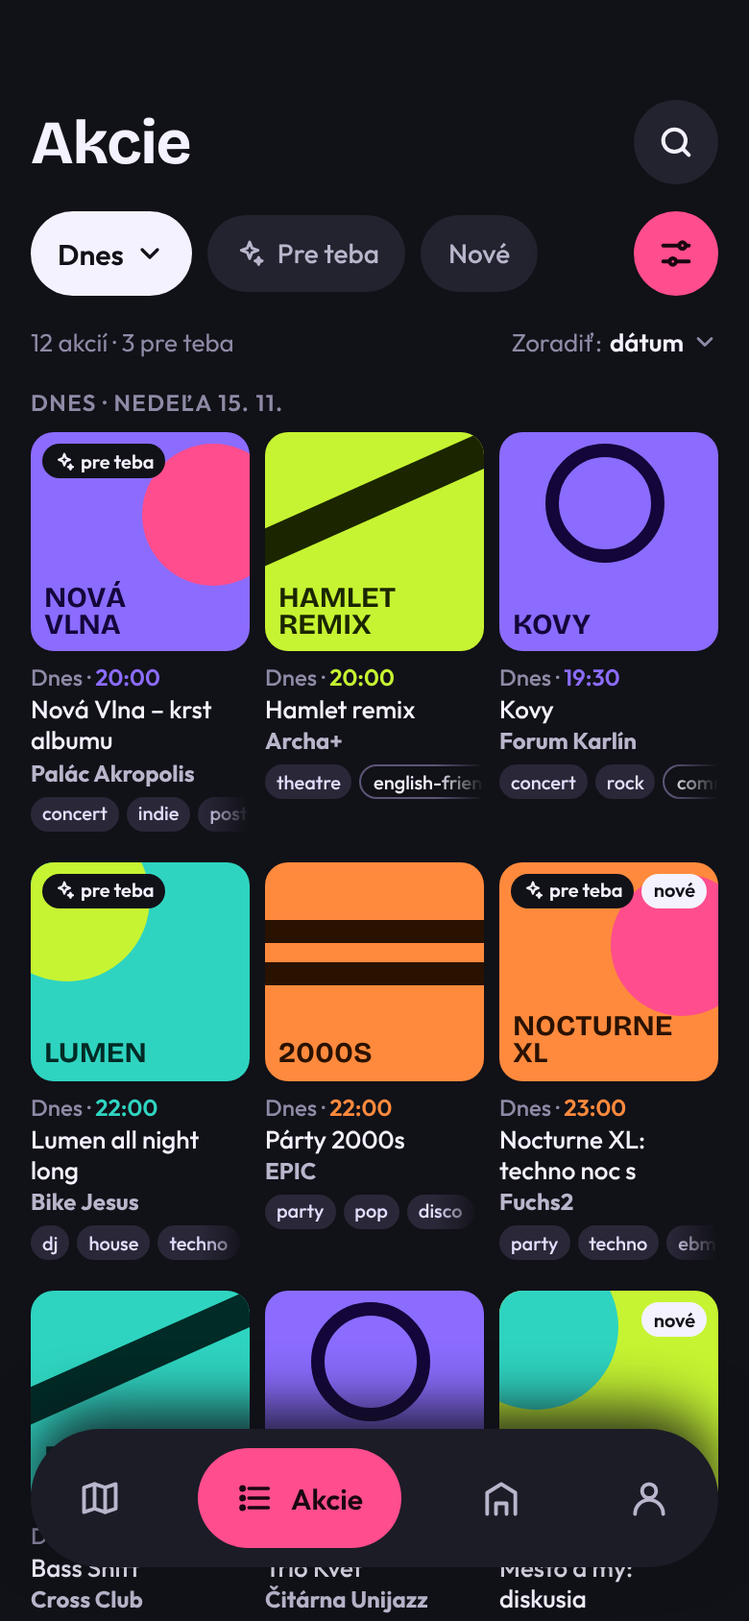
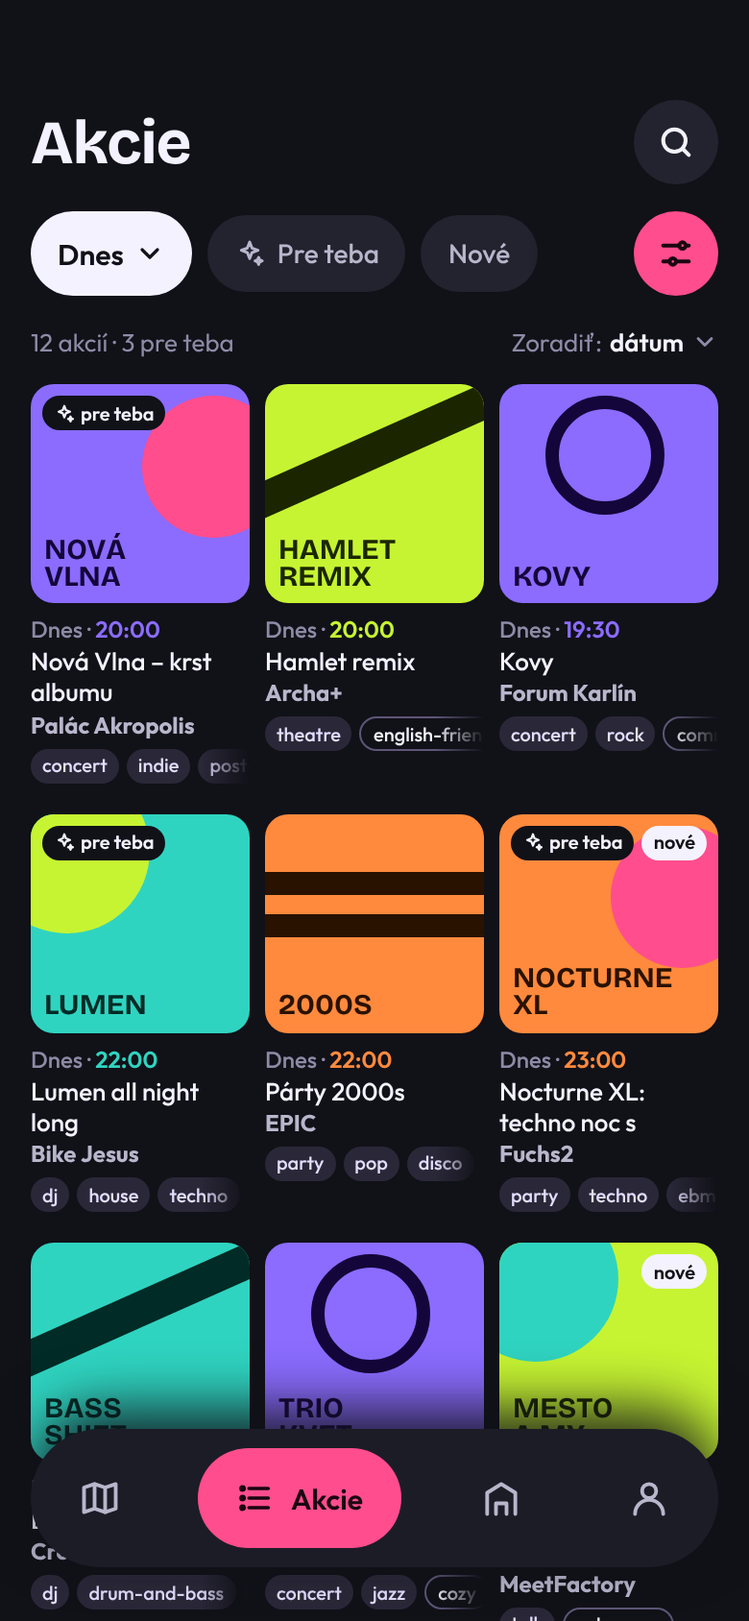
docs: Akcie grid without day headers
Claude-Session: https://claude.ai/code/session_01CCRZeCVriBLHf7RCmUKnbv

diff --git a/docs/design/html/11-akcie-obdobie.html b/docs/design/html/11-akcie-obdobie.html
@@ -9,7 +9,7 @@
 <button style="height:44px;padding:0 14px;border-radius:22px;border:0;background:#F4F2FF;color:#111118;font-family:Outfit,sans-serif;font-size:15px;font-weight:600;display:flex;align-items:center;gap:6px;white-space:nowrap;flex:none">7 dní<svg width="16" height="16" viewBox="0 0 24 24" fill="none" stroke="currentColor" stroke-width="2.4" stroke-linecap="round" stroke-linejoin="round" aria-hidden="true"><path d="M6 9l6 6 6-6"></path></svg></button>
 <div class="tg" style="flex:1;min-width:0;display:flex;gap:8px;overflow:hidden"><button style="height:40px;padding:0 14px;border-radius:20px;border:0;background:#23232F;color:#B9B6CC;font-family:Outfit,sans-serif;font-size:14px;font-weight:500;display:flex;align-items:center;gap:6px;white-space:nowrap;flex:none"><svg width="16" height="16" viewBox="0 0 24 24" fill="none" stroke="currentColor" stroke-width="2.2" stroke-linecap="round" stroke-linejoin="round" aria-hidden="true"><path d="M12 3l1.8 4.7L18.5 9.5l-4.7 1.8L12 16l-1.8-4.7L5.5 9.5l4.7-1.8z"></path><path d="M19 15l.8 2 2 .8-2 .8-.8 2-.8-2-2-.8 2-.8z"></path></svg>Pre teba</button><button style="height:40px;padding:0 14px;border-radius:20px;border:0;background:#23232F;color:#B9B6CC;font-family:Outfit,sans-serif;font-size:14px;font-weight:500;display:flex;align-items:center;gap:6px;white-space:nowrap;flex:none">Nové</button></div>
 <button style="width:44px;height:44px;border-radius:22px;border:0;background:#FF4D8D;color:#1A0710;display:flex;align-items:center;justify-content:center;flex:none" aria-label="Filter"><svg width="20" height="20" viewBox="0 0 24 24" fill="none" stroke="currentColor" stroke-width="2.4" stroke-linecap="round" stroke-linejoin="round" aria-hidden="true"><path d="M4 7h10M18 7h2M4 17h4M12 17h8"></path><circle cx="16" cy="7" r="2"></circle><circle cx="10" cy="17" r="2"></circle></svg></button></div>
-<div style="display:flex;justify-content:space-between;align-items:center;font-size:13px;color:#8E8AA6;margin-top:2px"><span>31 akcií · 9 pre teba</span><span style="display:flex;align-items:center;gap:4px">Zoradiť: <b style="color:#F4F2FF;font-weight:600">dátum</b><svg width="14" height="14" viewBox="0 0 24 24" fill="none" stroke="currentColor" stroke-width="2.4" stroke-linecap="round" stroke-linejoin="round" aria-hidden="true"><path d="M6 9l6 6 6-6"></path></svg></span></div></div><div style="padding:0 16px"><div style="font-size:12px;font-weight:600;letter-spacing:.06em;color:#8E8AA6;margin:16px 0 8px">DNES · NEDEĽA 15. 11.</div><div style="display:grid;grid-template-columns:repeat(3,minmax(0,1fr));gap:16px 8px;align-items:start"><div style="min-width:0">
+<div style="display:flex;justify-content:space-between;align-items:center;font-size:13px;color:#8E8AA6;margin-top:2px"><span>31 akcií · 9 pre teba</span><span style="display:flex;align-items:center;gap:4px">Zoradiť: <b style="color:#F4F2FF;font-weight:600">dátum</b><svg width="14" height="14" viewBox="0 0 24 24" fill="none" stroke="currentColor" stroke-width="2.4" stroke-linecap="round" stroke-linejoin="round" aria-hidden="true"><path d="M6 9l6 6 6-6"></path></svg></span></div></div><div style="padding:14px 16px 0"><div style="display:grid;grid-template-columns:repeat(3,minmax(0,1fr));gap:16px 8px;align-items:start"><div style="min-width:0">
 <div style="width:100%;aspect-ratio:1/1;border-radius:12px;background:#8B6CFF;color:#14063A;position:relative;overflow:hidden;display:flex;align-items:flex-end;padding:7px;box-sizing:border-box"><span style="position:absolute;width:74px;height:74px;border-radius:50%;background:#FF4D8D;right:-18px;top:6px"></span><span style="position:absolute;top:6px;left:6px;z-index:2;height:18px;padding:0 6px;border-radius:9px;background:#111118;color:#F4F2FF;font-size:10px;font-weight:600;display:flex;align-items:center;gap:3px"><svg width="11" height="11" viewBox="0 0 24 24" fill="none" stroke="currentColor" stroke-width="2.4" stroke-linecap="round" stroke-linejoin="round" aria-hidden="true"><path d="M12 3l1.8 4.7L18.5 9.5l-4.7 1.8L12 16l-1.8-4.7L5.5 9.5l4.7-1.8z"></path><path d="M19 15l.8 2 2 .8-2 .8-.8 2-.8-2-2-.8 2-.8z"></path></svg>pre teba</span><span style="position:relative;z-index:1;font-family:'Bricolage Grotesque',sans-serif;font-weight:700;font-size:15px;line-height:.95;text-transform:uppercase">Nová<br>Vlna</span></div>
 <div style="margin-top:6px;font-size:12px;font-weight:600;white-space:nowrap;overflow:hidden"><span style="color:#8E8AA6;font-weight:500">Dnes · </span><span style="color:#8B6CFF">20:00</span></div>
 <div style="font-size:13px;font-weight:500;line-height:1.25;max-height:2.5em;overflow:hidden;margin-top:1px">Nová Vlna – krst albumu</div>
@@ -24,19 +24,19 @@
 <div style="margin-top:6px;font-size:12px;font-weight:600;white-space:nowrap;overflow:hidden"><span style="color:#8E8AA6;font-weight:500">Dnes · </span><span style="color:#FF8A3D">23:00</span></div>
 <div style="font-size:13px;font-weight:500;line-height:1.25;max-height:2.5em;overflow:hidden;margin-top:1px">Nocturne XL: techno noc s hosťami z Berlína</div>
 <div style="font-size:12px;font-weight:700;color:#B9B6CC;white-space:nowrap;overflow:hidden;text-overflow:ellipsis;margin-top:1px">Fuchs2</div>
-<div class="tg" style="display:flex;gap:4px;margin-top:5px;overflow:hidden"><span style="flex:none;height:18px;padding:0 6px;border-radius:9px;font-size:10px;font-weight:500;display:flex;align-items:center;background:#2A2838;color:#E4DEFF">party</span><span style="flex:none;height:18px;padding:0 6px;border-radius:9px;font-size:10px;font-weight:500;display:flex;align-items:center;background:#2A2838;color:#E4DEFF">techno</span><span style="flex:none;height:18px;padding:0 6px;border-radius:9px;font-size:10px;font-weight:500;display:flex;align-items:center;background:#2A2838;color:#E4DEFF">ebm</span><span style="flex:none;height:18px;padding:0 6px;border-radius:9px;font-size:10px;font-weight:500;display:flex;align-items:center;border:1.5px solid #5D5677;color:#F4F2FF;box-sizing:border-box">late-night</span></div></div></div><div style="font-size:12px;font-weight:600;letter-spacing:.06em;color:#8E8AA6;margin:16px 0 8px">PONDELOK 16. 11.</div><div style="display:grid;grid-template-columns:repeat(3,minmax(0,1fr));gap:16px 8px;align-items:start"><div style="min-width:0">
+<div class="tg" style="display:flex;gap:4px;margin-top:5px;overflow:hidden"><span style="flex:none;height:18px;padding:0 6px;border-radius:9px;font-size:10px;font-weight:500;display:flex;align-items:center;background:#2A2838;color:#E4DEFF">party</span><span style="flex:none;height:18px;padding:0 6px;border-radius:9px;font-size:10px;font-weight:500;display:flex;align-items:center;background:#2A2838;color:#E4DEFF">techno</span><span style="flex:none;height:18px;padding:0 6px;border-radius:9px;font-size:10px;font-weight:500;display:flex;align-items:center;background:#2A2838;color:#E4DEFF">ebm</span><span style="flex:none;height:18px;padding:0 6px;border-radius:9px;font-size:10px;font-weight:500;display:flex;align-items:center;border:1.5px solid #5D5677;color:#F4F2FF;box-sizing:border-box">late-night</span></div></div><div style="min-width:0">
 <div style="width:100%;aspect-ratio:1/1;border-radius:12px;background:#8B6CFF;color:#14063A;position:relative;overflow:hidden;display:flex;align-items:flex-end;padding:7px;box-sizing:border-box"><span style="position:absolute;width:74px;height:74px;border-radius:50%;background:#FF4D8D;right:-18px;top:6px"></span><span style="position:relative;z-index:1;font-family:'Bricolage Grotesque',sans-serif;font-weight:700;font-size:15px;line-height:.95;text-transform:uppercase">Trio<br>Kvet</span></div>
-<div style="margin-top:6px;font-size:12px;font-weight:600;white-space:nowrap;overflow:hidden"><span style="color:#8E8AA6;font-weight:500">Po 16. 11. · </span><span style="color:#8B6CFF">20:00</span></div>
+<div style="margin-top:6px;font-size:12px;font-weight:600;white-space:nowrap;overflow:hidden"><span style="color:#8E8AA6;font-weight:500">Zajtra · </span><span style="color:#8B6CFF">20:00</span></div>
 <div style="font-size:13px;font-weight:500;line-height:1.25;max-height:2.5em;overflow:hidden;margin-top:1px">Trio Kvet</div>
 <div style="font-size:12px;font-weight:700;color:#B9B6CC;white-space:nowrap;overflow:hidden;text-overflow:ellipsis;margin-top:1px">Čitárna Unijazz</div>
 <div class="tg" style="display:flex;gap:4px;margin-top:5px;overflow:hidden"><span style="flex:none;height:18px;padding:0 6px;border-radius:9px;font-size:10px;font-weight:500;display:flex;align-items:center;background:#2A2838;color:#E4DEFF">concert</span><span style="flex:none;height:18px;padding:0 6px;border-radius:9px;font-size:10px;font-weight:500;display:flex;align-items:center;background:#2A2838;color:#E4DEFF">jazz</span><span style="flex:none;height:18px;padding:0 6px;border-radius:9px;font-size:10px;font-weight:500;display:flex;align-items:center;border:1.5px solid #5D5677;color:#F4F2FF;box-sizing:border-box">cozy</span></div></div><div style="min-width:0">
 <div style="width:100%;aspect-ratio:1/1;border-radius:12px;background:#C6F432;color:#1B2600;position:relative;overflow:hidden;display:flex;align-items:flex-end;padding:7px;box-sizing:border-box"><span style="position:absolute;width:140px;height:18px;border-radius:4px;background:#1B2600;left:-14px;top:26px;transform:rotate(-24deg)"></span><span style="position:absolute;top:6px;right:6px;z-index:2;height:18px;padding:0 6px;border-radius:9px;background:#F4F2FF;color:#111118;font-size:10px;font-weight:600;display:flex;align-items:center">nové</span><span style="position:relative;z-index:1;font-family:'Bricolage Grotesque',sans-serif;font-weight:700;font-size:15px;line-height:.95;text-transform:uppercase">Mesto<br>a my</span></div>
-<div style="margin-top:6px;font-size:12px;font-weight:600;white-space:nowrap;overflow:hidden"><span style="color:#8E8AA6;font-weight:500">Po 16. 11. · </span><span style="color:#C6F432">19:00</span></div>
+<div style="margin-top:6px;font-size:12px;font-weight:600;white-space:nowrap;overflow:hidden"><span style="color:#8E8AA6;font-weight:500">Zajtra · </span><span style="color:#C6F432">19:00</span></div>
 <div style="font-size:13px;font-weight:500;line-height:1.25;max-height:2.5em;overflow:hidden;margin-top:1px">Mesto a my: diskusia</div>
 <div style="font-size:12px;font-weight:700;color:#B9B6CC;white-space:nowrap;overflow:hidden;text-overflow:ellipsis;margin-top:1px">MeetFactory</div>
 <div class="tg" style="display:flex;gap:4px;margin-top:5px;overflow:hidden"><span style="flex:none;height:18px;padding:0 6px;border-radius:9px;font-size:10px;font-weight:500;display:flex;align-items:center;background:#2A2838;color:#E4DEFF">talk</span><span style="flex:none;height:18px;padding:0 6px;border-radius:9px;font-size:10px;font-weight:500;display:flex;align-items:center;border:1.5px solid #5D5677;color:#F4F2FF;box-sizing:border-box">art-space</span></div></div><div style="min-width:0">
 <div style="width:100%;aspect-ratio:1/1;border-radius:12px;background:#C6F432;color:#1B2600;position:relative;overflow:hidden;display:flex;align-items:flex-end;padding:7px;box-sizing:border-box"><span style="position:absolute;width:62px;height:62px;border-radius:50%;border:7px solid #1B2600;left:24px;top:6px;box-sizing:border-box"></span><span style="position:relative;z-index:1;font-family:'Bricolage Grotesque',sans-serif;font-weight:700;font-size:15px;line-height:.95;text-transform:uppercase">Hamlet<br>remix</span></div>
-<div style="margin-top:6px;font-size:12px;font-weight:600;white-space:nowrap;overflow:hidden"><span style="color:#8E8AA6;font-weight:500">Po 16. 11. · </span><span style="color:#C6F432">20:00</span></div>
+<div style="margin-top:6px;font-size:12px;font-weight:600;white-space:nowrap;overflow:hidden"><span style="color:#8E8AA6;font-weight:500">Zajtra · </span><span style="color:#C6F432">20:00</span></div>
 <div style="font-size:13px;font-weight:500;line-height:1.25;max-height:2.5em;overflow:hidden;margin-top:1px">Hamlet remix</div>
 <div style="font-size:12px;font-weight:700;color:#B9B6CC;white-space:nowrap;overflow:hidden;text-overflow:ellipsis;margin-top:1px">Archa+</div>
 <div class="tg" style="display:flex;gap:4px;margin-top:5px;overflow:hidden"><span style="flex:none;height:18px;padding:0 6px;border-radius:9px;font-size:10px;font-weight:500;display:flex;align-items:center;background:#2A2838;color:#E4DEFF">theatre</span><span style="flex:none;height:18px;padding:0 6px;border-radius:9px;font-size:10px;font-weight:500;display:flex;align-items:center;border:1.5px solid #5D5677;color:#F4F2FF;box-sizing:border-box">english-friendly</span><span style="flex:none;height:18px;padding:0 6px;border-radius:9px;font-size:10px;font-weight:500;display:flex;align-items:center;border:1.5px solid #5D5677;color:#F4F2FF;box-sizing:border-box">experimental</span></div></div></div></div><nav style="position: absolute; z-index: 10; left: 16px; right: 16px; bottom: 28px; height: 72px; border-radius: 36px; background: #1C1C27; display: flex; align-items: center; justify-content: space-between; padding: 0 10px; box-shadow: 0 -10px 30px rgba(17,17,24,0.9)" aria-label="Hlavná navigácia"><a href="#" style="width: 52px; height: 52px; border-radius: 26px; color: #B9B6CC; display: flex; align-items: center; justify-content: center" aria-label="Mapa"><svg width="22" height="22" viewBox="0 0 24 24" fill="none" stroke="currentColor" stroke-width="2.1" stroke-linecap="round" stroke-linejoin="round" aria-hidden="true"><path d="M9 4L3 6v14l6-2 6 2 6-2V4l-6 2z"></path><path d="M9 4v14M15 6v14"></path></svg></a><a href="#" style="height: 52px; padding: 0 20px; border-radius: 26px; background: #FF4D8D; color: #1A0710; display: flex; align-items: center; gap: 8px; text-decoration: none; font-size: 15px; font-weight: 600"><svg width="20" height="20" viewBox="0 0 24 24" fill="none" stroke="currentColor" stroke-width="2.2" stroke-linecap="round" stroke-linejoin="round" aria-hidden="true"><path d="M8 6h12M8 12h12M8 18h12"></path><circle cx="4" cy="6" r="1"></circle><circle cx="4" cy="12" r="1"></circle><circle cx="4" cy="18" r="1"></circle></svg>Akcie</a><a href="#" style="width: 52px; height: 52px; border-radius: 26px; color: #B9B6CC; display: flex; align-items: center; justify-content: center" aria-label="Miesta"><svg width="22" height="22" viewBox="0 0 24 24" fill="none" stroke="currentColor" stroke-width="2.1" stroke-linecap="round" stroke-linejoin="round" aria-hidden="true"><path d="M4 21V9l8-5 8 5v12"></path><path d="M9 21v-6h6v6"></path></svg></a><a href="#" style="width: 52px; height: 52px; border-radius: 26px; color: #B9B6CC; display: flex; align-items: center; justify-content: center" aria-label="Účet"><svg width="22" height="22" viewBox="0 0 24 24" fill="none" stroke="currentColor" stroke-width="2.1" stroke-linecap="round" stroke-linejoin="round" aria-hidden="true"><circle cx="12" cy="8" r="4"></circle><path d="M4 21a8 8 0 0 1 16 0"></path></svg></a></nav><div style="position:absolute;inset:0;background:rgba(11,11,16,.6);z-index:5"></div>

diff --git a/docs/design/html/12-akcie-hladanie.html b/docs/design/html/12-akcie-hladanie.html
@@ -9,12 +9,12 @@
 <button style="height:44px;padding:0 14px;border-radius:22px;border:0;background:#F4F2FF;color:#111118;font-family:Outfit,sans-serif;font-size:15px;font-weight:600;display:flex;align-items:center;gap:6px;white-space:nowrap;flex:none">Kedykoľvek<svg width="16" height="16" viewBox="0 0 24 24" fill="none" stroke="currentColor" stroke-width="2.4" stroke-linecap="round" stroke-linejoin="round" aria-hidden="true"><path d="M6 9l6 6 6-6"></path></svg></button>
 <div class="tg" style="flex:1;min-width:0;display:flex;gap:8px;overflow:hidden"><button style="height:40px;padding:0 14px;border-radius:20px;border:0;background:#23232F;color:#B9B6CC;font-family:Outfit,sans-serif;font-size:14px;font-weight:500;display:flex;align-items:center;gap:6px;white-space:nowrap;flex:none"><svg width="16" height="16" viewBox="0 0 24 24" fill="none" stroke="currentColor" stroke-width="2.2" stroke-linecap="round" stroke-linejoin="round" aria-hidden="true"><path d="M12 3l1.8 4.7L18.5 9.5l-4.7 1.8L12 16l-1.8-4.7L5.5 9.5l4.7-1.8z"></path><path d="M19 15l.8 2 2 .8-2 .8-.8 2-.8-2-2-.8 2-.8z"></path></svg>Pre teba</button><button style="height:40px;padding:0 14px;border-radius:20px;border:0;background:#23232F;color:#B9B6CC;font-family:Outfit,sans-serif;font-size:14px;font-weight:500;display:flex;align-items:center;gap:6px;white-space:nowrap;flex:none">Nové</button></div>
 <button style="width:44px;height:44px;border-radius:22px;border:0;background:#FF4D8D;color:#1A0710;display:flex;align-items:center;justify-content:center;flex:none" aria-label="Filter"><svg width="20" height="20" viewBox="0 0 24 24" fill="none" stroke="currentColor" stroke-width="2.4" stroke-linecap="round" stroke-linejoin="round" aria-hidden="true"><path d="M4 7h10M18 7h2M4 17h4M12 17h8"></path><circle cx="16" cy="7" r="2"></circle><circle cx="10" cy="17" r="2"></circle></svg></button></div>
-<div style="display:flex;justify-content:space-between;align-items:center;font-size:13px;color:#8E8AA6;margin-top:2px"><span>3 akcie</span><span style="display:flex;align-items:center;gap:4px">Zoradiť: <b style="color:#F4F2FF;font-weight:600">dátum</b><svg width="14" height="14" viewBox="0 0 24 24" fill="none" stroke="currentColor" stroke-width="2.4" stroke-linecap="round" stroke-linejoin="round" aria-hidden="true"><path d="M6 9l6 6 6-6"></path></svg></span></div></div><div style="padding:0 16px"><div style="font-size:12px;font-weight:600;letter-spacing:.06em;color:#8E8AA6;margin:16px 0 8px">DNES · NEDEĽA 15. 11.</div><div style="display:grid;grid-template-columns:repeat(3,minmax(0,1fr));gap:16px 8px;align-items:start"><div style="min-width:0">
+<div style="display:flex;justify-content:space-between;align-items:center;font-size:13px;color:#8E8AA6;margin-top:2px"><span>3 akcie</span><span style="display:flex;align-items:center;gap:4px">Zoradiť: <b style="color:#F4F2FF;font-weight:600">dátum</b><svg width="14" height="14" viewBox="0 0 24 24" fill="none" stroke="currentColor" stroke-width="2.4" stroke-linecap="round" stroke-linejoin="round" aria-hidden="true"><path d="M6 9l6 6 6-6"></path></svg></span></div></div><div style="padding:14px 16px 0"><div style="display:grid;grid-template-columns:repeat(3,minmax(0,1fr));gap:16px 8px;align-items:start"><div style="min-width:0">
 <div style="width:100%;aspect-ratio:1/1;border-radius:12px;background:#2FD4C0;color:#002B26;position:relative;overflow:hidden;display:flex;align-items:flex-end;padding:7px;box-sizing:border-box"><span style="position:absolute;width:74px;height:74px;border-radius:50%;background:#FF4D8D;right:-18px;top:6px"></span><span style="position:absolute;top:6px;left:6px;z-index:2;height:18px;padding:0 6px;border-radius:9px;background:#111118;color:#F4F2FF;font-size:10px;font-weight:600;display:flex;align-items:center;gap:3px"><svg width="11" height="11" viewBox="0 0 24 24" fill="none" stroke="currentColor" stroke-width="2.4" stroke-linecap="round" stroke-linejoin="round" aria-hidden="true"><path d="M12 3l1.8 4.7L18.5 9.5l-4.7 1.8L12 16l-1.8-4.7L5.5 9.5l4.7-1.8z"></path><path d="M19 15l.8 2 2 .8-2 .8-.8 2-.8-2-2-.8 2-.8z"></path></svg>pre teba</span><span style="position:relative;z-index:1;font-family:'Bricolage Grotesque',sans-serif;font-weight:700;font-size:15px;line-height:.95;text-transform:uppercase">Lumen</span></div>
 <div style="margin-top:6px;font-size:12px;font-weight:600;white-space:nowrap;overflow:hidden"><span style="color:#8E8AA6;font-weight:500">Dnes · </span><span style="color:#2FD4C0">22:00</span></div>
 <div style="font-size:13px;font-weight:500;line-height:1.25;max-height:2.5em;overflow:hidden;margin-top:1px">Lumen all night long</div>
 <div style="font-size:12px;font-weight:700;color:#B9B6CC;white-space:nowrap;overflow:hidden;text-overflow:ellipsis;margin-top:1px">Bike Jesus</div>
-<div class="tg" style="display:flex;gap:4px;margin-top:5px;overflow:hidden"><span style="flex:none;height:18px;padding:0 6px;border-radius:9px;font-size:10px;font-weight:500;display:flex;align-items:center;background:#2A2838;color:#E4DEFF">dj</span><span style="flex:none;height:18px;padding:0 6px;border-radius:9px;font-size:10px;font-weight:500;display:flex;align-items:center;background:#2A2838;color:#E4DEFF">house</span><span style="flex:none;height:18px;padding:0 6px;border-radius:9px;font-size:10px;font-weight:500;display:flex;align-items:center;background:#2A2838;color:#E4DEFF">techno</span><span style="flex:none;height:18px;padding:0 6px;border-radius:9px;font-size:10px;font-weight:500;display:flex;align-items:center;border:1.5px solid #5D5677;color:#F4F2FF;box-sizing:border-box">diy</span></div></div></div><div style="font-size:12px;font-weight:600;letter-spacing:.06em;color:#8E8AA6;margin:16px 0 8px">PIATOK 20. 11.</div><div style="display:grid;grid-template-columns:repeat(3,minmax(0,1fr));gap:16px 8px;align-items:start"><div style="min-width:0">
+<div class="tg" style="display:flex;gap:4px;margin-top:5px;overflow:hidden"><span style="flex:none;height:18px;padding:0 6px;border-radius:9px;font-size:10px;font-weight:500;display:flex;align-items:center;background:#2A2838;color:#E4DEFF">dj</span><span style="flex:none;height:18px;padding:0 6px;border-radius:9px;font-size:10px;font-weight:500;display:flex;align-items:center;background:#2A2838;color:#E4DEFF">house</span><span style="flex:none;height:18px;padding:0 6px;border-radius:9px;font-size:10px;font-weight:500;display:flex;align-items:center;background:#2A2838;color:#E4DEFF">techno</span><span style="flex:none;height:18px;padding:0 6px;border-radius:9px;font-size:10px;font-weight:500;display:flex;align-items:center;border:1.5px solid #5D5677;color:#F4F2FF;box-sizing:border-box">diy</span></div></div><div style="min-width:0">
 <div style="width:100%;aspect-ratio:1/1;border-radius:12px;background:#FF8A3D;color:#2A1200;position:relative;overflow:hidden;display:flex;align-items:flex-end;padding:7px;box-sizing:border-box"><span style="position:absolute;width:74px;height:74px;border-radius:50%;background:#FF4D8D;right:-18px;top:6px"></span><span style="position:absolute;top:6px;left:6px;z-index:2;height:18px;padding:0 6px;border-radius:9px;background:#111118;color:#F4F2FF;font-size:10px;font-weight:600;display:flex;align-items:center;gap:3px"><svg width="11" height="11" viewBox="0 0 24 24" fill="none" stroke="currentColor" stroke-width="2.4" stroke-linecap="round" stroke-linejoin="round" aria-hidden="true"><path d="M12 3l1.8 4.7L18.5 9.5l-4.7 1.8L12 16l-1.8-4.7L5.5 9.5l4.7-1.8z"></path><path d="M19 15l.8 2 2 .8-2 .8-.8 2-.8-2-2-.8 2-.8z"></path></svg>pre teba</span><span style="position:absolute;top:6px;right:6px;z-index:2;height:18px;padding:0 6px;border-radius:9px;background:#F4F2FF;color:#111118;font-size:10px;font-weight:600;display:flex;align-items:center">nové</span><span style="position:relative;z-index:1;font-family:'Bricolage Grotesque',sans-serif;font-weight:700;font-size:15px;line-height:.95;text-transform:uppercase">Nocturne<br>XL</span></div>
 <div style="margin-top:6px;font-size:12px;font-weight:600;white-space:nowrap;overflow:hidden"><span style="color:#8E8AA6;font-weight:500">Pi 20. 11. · </span><span style="color:#FF8A3D">23:00</span></div>
 <div style="font-size:13px;font-weight:500;line-height:1.25;max-height:2.5em;overflow:hidden;margin-top:1px">Nocturne XL: techno noc s hosťami z Berlína</div>

diff --git a/docs/design/html/10-akcie-mriezka.html b/docs/design/html/10-akcie-mriezka.html
@@ -9,7 +9,7 @@
 <button style="height:44px;padding:0 14px;border-radius:22px;border:0;background:#F4F2FF;color:#111118;font-family:Outfit,sans-serif;font-size:15px;font-weight:600;display:flex;align-items:center;gap:6px;white-space:nowrap;flex:none">Dnes<svg width="16" height="16" viewBox="0 0 24 24" fill="none" stroke="currentColor" stroke-width="2.4" stroke-linecap="round" stroke-linejoin="round" aria-hidden="true"><path d="M6 9l6 6 6-6"></path></svg></button>
 <div class="tg" style="flex:1;min-width:0;display:flex;gap:8px;overflow:hidden"><button style="height:40px;padding:0 14px;border-radius:20px;border:0;background:#23232F;color:#B9B6CC;font-family:Outfit,sans-serif;font-size:14px;font-weight:500;display:flex;align-items:center;gap:6px;white-space:nowrap;flex:none"><svg width="16" height="16" viewBox="0 0 24 24" fill="none" stroke="currentColor" stroke-width="2.2" stroke-linecap="round" stroke-linejoin="round" aria-hidden="true"><path d="M12 3l1.8 4.7L18.5 9.5l-4.7 1.8L12 16l-1.8-4.7L5.5 9.5l4.7-1.8z"></path><path d="M19 15l.8 2 2 .8-2 .8-.8 2-.8-2-2-.8 2-.8z"></path></svg>Pre teba</button><button style="height:40px;padding:0 14px;border-radius:20px;border:0;background:#23232F;color:#B9B6CC;font-family:Outfit,sans-serif;font-size:14px;font-weight:500;display:flex;align-items:center;gap:6px;white-space:nowrap;flex:none">Nové</button></div>
 <button style="width:44px;height:44px;border-radius:22px;border:0;background:#FF4D8D;color:#1A0710;display:flex;align-items:center;justify-content:center;flex:none" aria-label="Filter"><svg width="20" height="20" viewBox="0 0 24 24" fill="none" stroke="currentColor" stroke-width="2.4" stroke-linecap="round" stroke-linejoin="round" aria-hidden="true"><path d="M4 7h10M18 7h2M4 17h4M12 17h8"></path><circle cx="16" cy="7" r="2"></circle><circle cx="10" cy="17" r="2"></circle></svg></button></div>
-<div style="display:flex;justify-content:space-between;align-items:center;font-size:13px;color:#8E8AA6;margin-top:2px"><span>12 akcií · 3 pre teba</span><span style="display:flex;align-items:center;gap:4px">Zoradiť: <b style="color:#F4F2FF;font-weight:600">dátum</b><svg width="14" height="14" viewBox="0 0 24 24" fill="none" stroke="currentColor" stroke-width="2.4" stroke-linecap="round" stroke-linejoin="round" aria-hidden="true"><path d="M6 9l6 6 6-6"></path></svg></span></div></div><div style="padding:0 16px"><div style="font-size:12px;font-weight:600;letter-spacing:.06em;color:#8E8AA6;margin:16px 0 8px">DNES · NEDEĽA 15. 11.</div><div style="display:grid;grid-template-columns:repeat(3,minmax(0,1fr));gap:16px 8px;align-items:start"><div style="min-width:0">
+<div style="display:flex;justify-content:space-between;align-items:center;font-size:13px;color:#8E8AA6;margin-top:2px"><span>12 akcií · 3 pre teba</span><span style="display:flex;align-items:center;gap:4px">Zoradiť: <b style="color:#F4F2FF;font-weight:600">dátum</b><svg width="14" height="14" viewBox="0 0 24 24" fill="none" stroke="currentColor" stroke-width="2.4" stroke-linecap="round" stroke-linejoin="round" aria-hidden="true"><path d="M6 9l6 6 6-6"></path></svg></span></div></div><div style="padding:14px 16px 0"><div style="display:grid;grid-template-columns:repeat(3,minmax(0,1fr));gap:16px 8px;align-items:start"><div style="min-width:0">
 <div style="width:100%;aspect-ratio:1/1;border-radius:12px;background:#8B6CFF;color:#14063A;position:relative;overflow:hidden;display:flex;align-items:flex-end;padding:7px;box-sizing:border-box"><span style="position:absolute;width:74px;height:74px;border-radius:50%;background:#FF4D8D;right:-18px;top:6px"></span><span style="position:absolute;top:6px;left:6px;z-index:2;height:18px;padding:0 6px;border-radius:9px;background:#111118;color:#F4F2FF;font-size:10px;font-weight:600;display:flex;align-items:center;gap:3px"><svg width="11" height="11" viewBox="0 0 24 24" fill="none" stroke="currentColor" stroke-width="2.4" stroke-linecap="round" stroke-linejoin="round" aria-hidden="true"><path d="M12 3l1.8 4.7L18.5 9.5l-4.7 1.8L12 16l-1.8-4.7L5.5 9.5l4.7-1.8z"></path><path d="M19 15l.8 2 2 .8-2 .8-.8 2-.8-2-2-.8 2-.8z"></path></svg>pre teba</span><span style="position:relative;z-index:1;font-family:'Bricolage Grotesque',sans-serif;font-weight:700;font-size:15px;line-height:.95;text-transform:uppercase">Nová<br>Vlna</span></div>
 <div style="margin-top:6px;font-size:12px;font-weight:600;white-space:nowrap;overflow:hidden"><span style="color:#8E8AA6;font-weight:500">Dnes · </span><span style="color:#8B6CFF">20:00</span></div>
 <div style="font-size:13px;font-weight:500;line-height:1.25;max-height:2.5em;overflow:hidden;margin-top:1px">Nová Vlna – krst albumu</div>

diff --git a/docs/design/source/gen/akcie.py b/docs/design/source/gen/akcie.py
@@ -36,7 +36,7 @@ def card(i,t,date,time,poster,name,venue,tags,me=False,new=False):
 <div style="font-size:12px;font-weight:700;color:#B9B6CC;white-space:nowrap;overflow:hidden;text-overflow:ellipsis;margin-top:1px">{venue}</div>
 <div class="tg" style="display:flex;gap:4px;margin-top:5px;overflow:hidden">{tg}</div></div>'''
 def grid(cards): return '<div style="display:grid;grid-template-columns:repeat(3,minmax(0,1fr));gap:16px 8px;align-items:start">'+''.join(cards)+'</div>'
-def day(t): return f'<div style="font-size:12px;font-weight:600;letter-spacing:.06em;color:#8E8AA6;margin:16px 0 8px">{t}</div>'
+def day(t): return ''
 def header(period,search=None,me=False,new=False,count='',sort='dátum'):
     if search is None:
         top=f'''<div style="display:flex;align-items:center;height:44px"><h1 style="margin:0;font-family:'Bricolage Grotesque',sans-serif;font-size:32px;font-weight:700;letter-spacing:-0.02em">Akcie</h1>
@@ -69,10 +69,10 @@ END='</div></body></html>'
 def page(name,body,overlay=''):
     open(f'{OUT}/{name}.html','w').write(HEAD.format(t=name)+body+NAV+overlay+END)
 # 10 default Dnes
-b=header('Dnes',count='12 akcií · 3 pre teba')+'<div style="padding:0 16px">'+day('DNES · NEDEĽA 15. 11.')+grid(cards(range(12),'Dnes'))+'</div>'
+b=header('Dnes',count='12 akcií · 3 pre teba')+'<div style="padding:14px 16px 0">'+day('DNES · NEDEĽA 15. 11.')+grid(cards(range(12),'Dnes'))+'</div>'
 page('10-akcie-mriezka',b)
 # 11 period sheet
-b=header('7 dní',count='31 akcií · 9 pre teba')+'<div style="padding:0 16px">'+day('DNES · NEDEĽA 15. 11.')+grid(cards([0,3,5],'Dnes'))+day('PONDELOK 16. 11.')+grid(cards([7,8,1],'Po 16. 11.'))+'</div>'
+b=header('7 dní',count='31 akcií · 9 pre teba')+'<div style="padding:14px 16px 0">'+day('DNES · NEDEĽA 15. 11.')+grid(cards([0,3,5],'Dnes')+cards([7,8,1],'Zajtra'))+'</div>'
 row=lambda lab,on=False,ic='',sub='': f'<div style="height:48px;border-radius:24px;padding:0 16px;display:flex;align-items:center;gap:10px;font-size:16px;font-weight:{600 if on else 500};background:{"#F4F2FF" if on else "transparent"};color:{"#111118" if on else "#F4F2FF"}">{ic}<span>{lab}</span><span style="margin-left:auto;font-size:13px;color:{"#4A4760" if on else "#8E8AA6"};font-weight:500">{sub}</span></div>'
 sheet=f'''<div style="position:absolute;inset:0;background:rgba(11,11,16,.6);z-index:5"></div>
 <div style="position:absolute;left:0;right:0;bottom:0;z-index:6;background:#1C1C27;border-radius:28px 28px 0 0;padding:10px 12px 124px">
@@ -85,5 +85,5 @@ sheet=f'''<div style="position:absolute;inset:0;background:rgba(11,11,16,.6);z-i
 </div>'''
 page('11-akcie-obdobie',b,sheet)
 # 12 search
-b=header('Kedykoľvek',search='techno',count='3 akcie')+'<div style="padding:0 16px">'+day('DNES · NEDEĽA 15. 11.')+grid(cards([3],'Dnes'))+day('PIATOK 20. 11.')+grid(cards([5,10],'Pi 20. 11.'))+'</div>'
+b=header('Kedykoľvek',search='techno',count='3 akcie')+'<div style="padding:14px 16px 0">'+day('DNES · NEDEĽA 15. 11.')+grid(cards([3],'Dnes')+cards([5,10],'Pi 20. 11.'))+'</div>'
 page('12-akcie-hladanie',b)

diff --git a/docs/design.md b/docs/design.md
@@ -102,7 +102,7 @@ Jeden zoznam akcií (mriežka) a nad ním filtre, ktoré sa dajú ľubovoľne ko
 **Pre teba:** akcia v obľúbenom mieste alebo so žánrom/štítkom z preferencií používateľa (preferencie zatiaľ nie sú, dovtedy len obľúbené miesta). Vypnuté = všetky akcie, akcie pre teba majú na obrázku odznak **pre teba**. Zapnuté = len akcie pre teba.
 **Nové:** akcia s `first_seen` za posledných 7 dní. Na obrázku biely odznak **nové**; zapnutý čip ukáže len nové.
 
-**Zoradenie:** **dátum** (predvolené; zoskupené pod nadpismi dní „DNES · NEDEĽA 15. 11.“, „PIATOK 20. 11.“ – 12/600, veľké písmená, `#8E8AA6`) a **vzdialenosť** (len s povolenou polohou; bez nadpisov dní). Cena príde po doplnení cien v dátach.
+**Zoradenie:** **dátum** (predvolené) a **vzdialenosť** (len s povolenou polohou). **Bez nadpisov dní** pri akomkoľvek období a zoradení: mriežka ide súvisle bez medzier v riadkoch, dátum nesie každá karta (Matej 2026-11-15). Cena príde po doplnení cien v dátach.
 
 **Mriežka:** 3 stĺpce, medzera 8 px vodorovne, 16 px zvisle, karty zarovnané hore (výška podľa obsahu, žiadna prázdna medzera pod krátkym názvom). Karta:
 - štvorcový **obrázok** (zaoblenie 12) – náhľad obrázka akcie; bez obrázka plocha vo farbe typu s ikonou typu. Odznaky: vľavo hore **pre teba** (tmavý `#111118`, iskry + text 10/600), vpravo hore **nové** (biely).
